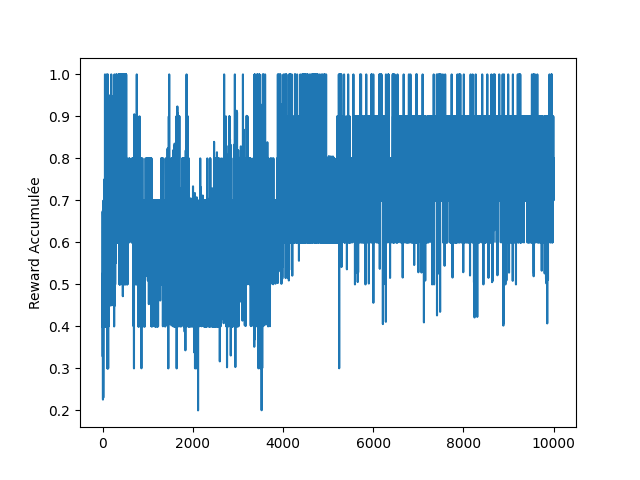
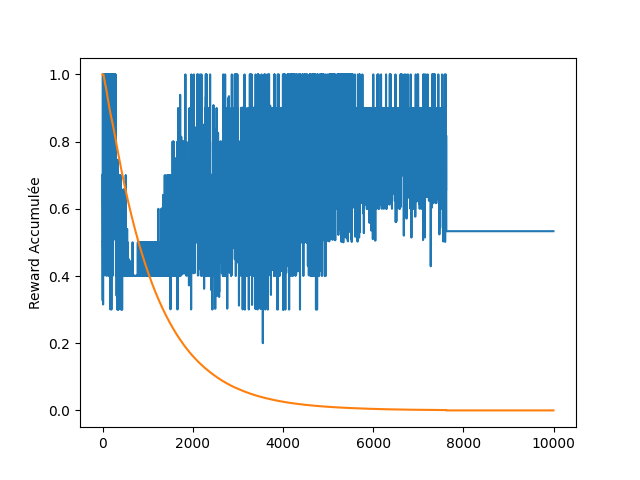
last test agent continuous

diff --git a/python/Agent.py b/python/Agent.py
@@ -31,7 +31,7 @@ class Agent(object):
             self.device = torch.device('cuda')
         else:
             self.device = torch.device('cpu')
-            
+
         self.critic_1 = Critic(observation_space.shape[0], action_space.shape[0]).to(device=self.device)
         self.critic_1_target = copy.deepcopy(self.critic_1).to(device=self.device)
         self.critic_1_optimizer = torch.optim.Adam(self.critic_1.parameters(), LR_CRITIC, weight_decay=WEIGHT_DECAY)
@@ -49,7 +49,7 @@ class Agent(object):
     def act(self, observation, reward, done):
         action = self.actor(torch.tensor(observation,  dtype=torch.float32, device=self.device)).data.numpy()
         action += np.random.normal(0, EXPLORATION_NOISE, size=self.action_space.shape[0])
-        action = action.clip(self.action_space.low[0], self.action_space.high[0])
+        action = action.clip(self.action_space.low, self.action_space.high)
         return torch.tensor(action)
         
 

diff --git a/main.py b/main.py
@@ -32,6 +32,7 @@ if __name__ == '__main__':
 
 
     tab_rewards_accumulees = []
+    tab_noise = []
 
     sum_reward = 0
     nb_reward = 0
@@ -60,6 +61,11 @@ if __name__ == '__main__':
                     agent.learn(steps)
                 reward_accumulee = env.overlap
                 tab_rewards_accumulees.append(reward_accumulee)
+                if(agent.adding_noise):
+                    tab_noise.append(agent.exploration_noise)
+                else:
+                    tab_noise.append(0)
+                
                 if(nb_reward < 100):
                     nb_reward+=1
                 else:
@@ -77,6 +83,7 @@ if __name__ == '__main__':
 
 
     plt.plot(tab_rewards_accumulees)
+    plt.plot(tab_noise)
     plt.ylabel('Reward Accumulée')
     
     print("Saving...")

diff --git a/python/constantes.py b/python/constantes.py
@@ -15,9 +15,15 @@ LR_ACTOR = 0.001     # learning rate of the actor
 LR_CRITIC = 0.001       # learning rate of the critic
 WEIGHT_DECAY = 0      # L2 weight decay
 
-POLICY_NOISE = 0.1
-NOISE_CLIP = 0.1
+POLICY_NOISE = 0.05
+NOISE_CLIP = 0.05
 
 LEARNING_START = 10*BATCH_SIZE
 MAX_STEPS = 50
-EXPLORATION_NOISE = 0.1
+
+START_EXPLORATION_NOISE = 1
+NOISE_LIMIT = 0.001
+
+NOISE_ATTENUATION = START_EXPLORATION_NOISE * pow(NOISE_LIMIT, 1/(EPISODE_COUNT*MAX_STEPS*3/4))
+
+print(NOISE_ATTENUATION)
